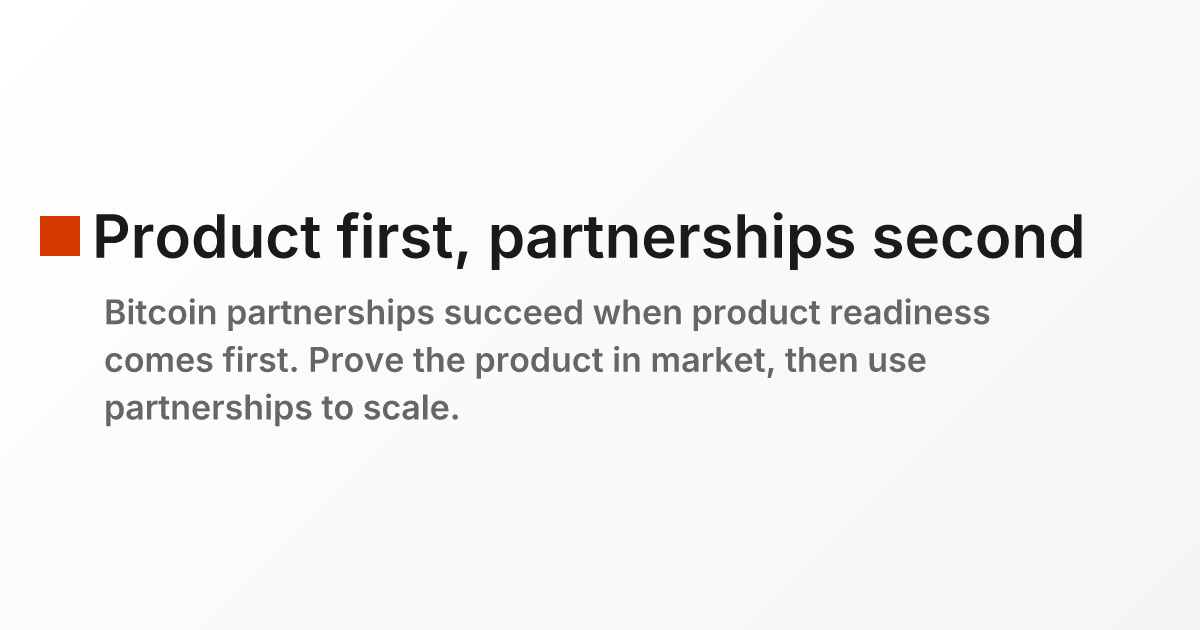
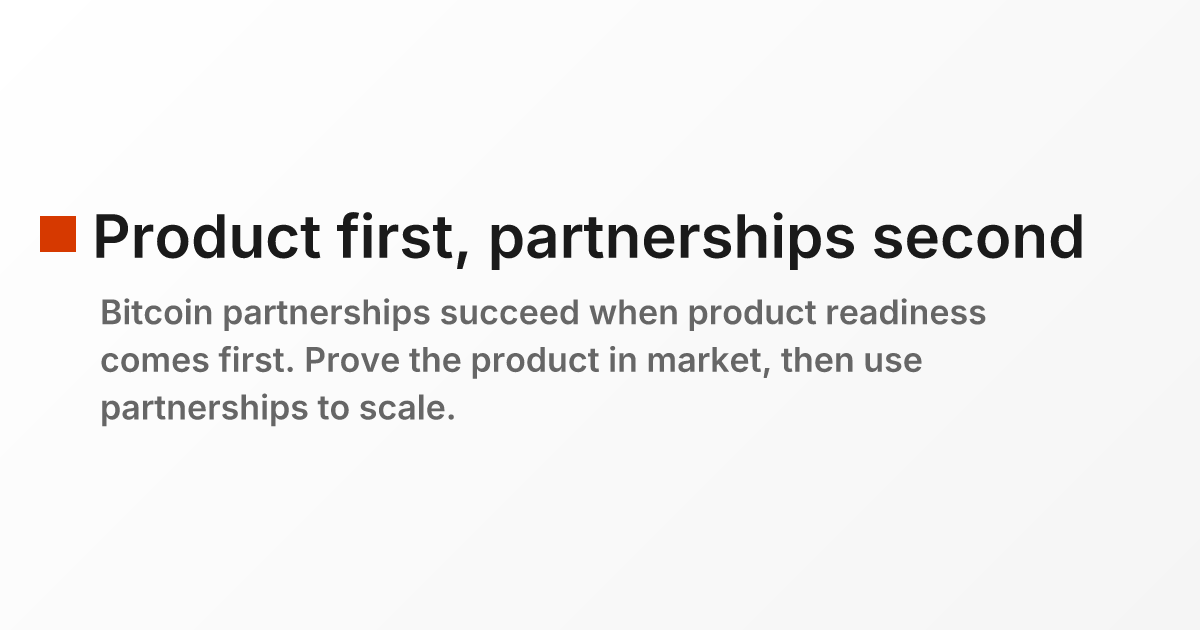
fix: adjust orange square sizing for better visual balance
Reduced orange square size and increased spacing in both formats
to create better visual hierarchy and breathing room:

Landscape (1200×630):
- Square: 40px → 36px
- Gap: 12px → 16px
- Description padding: 64px → 60px

Square (1200×1200):
- Square: 44px → 32px
- Gap: 16px → 24px
- Description padding: 76px → 64px

Regenerated all 10 OG images (5 essays × 2 formats).

🤖 Generated with [Claude Code](https://claude.com/claude-code)

diff --git a/scripts/generate-og-images.js b/scripts/generate-og-images.js
@@ -97,13 +97,13 @@ async function main() {
             <div style="
               display: flex;
               align-items: flex-start;
-              gap: 12px;
+              gap: 16px;
               margin-bottom: 16px;
             ">
               <div style="
                 display: flex;
-                width: 40px;
-                height: 40px;
+                width: 36px;
+                height: 36px;
                 background: ${COLORS.accent};
                 margin-top: 16px;
                 flex-shrink: 0;
@@ -123,7 +123,7 @@ async function main() {
               line-height: 1.4;
               margin: 0;
               max-width: 1000px;
-              padding-left: 64px;
+              padding-left: 60px;
             ">${description}</p>
           </div>
         </div>
@@ -153,13 +153,13 @@ async function main() {
             <div style="
               display: flex;
               align-items: flex-start;
-              gap: 16px;
+              gap: 24px;
               margin-bottom: 24px;
             ">
               <div style="
                 display: flex;
-                width: 44px;
-                height: 44px;
+                width: 32px;
+                height: 32px;
                 background: ${COLORS.accent};
                 margin-top: 20px;
                 flex-shrink: 0;
@@ -179,7 +179,7 @@ async function main() {
               line-height: 1.4;
               margin: 0;
               max-width: 800px;
-              padding-left: 76px;
+              padding-left: 64px;
             ">${description}</p>
           </div>
         </div>
